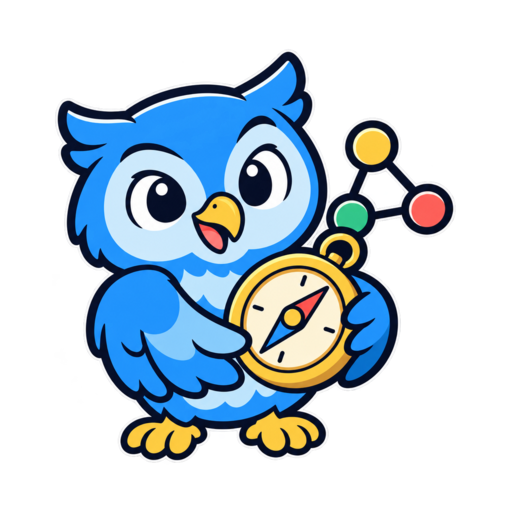
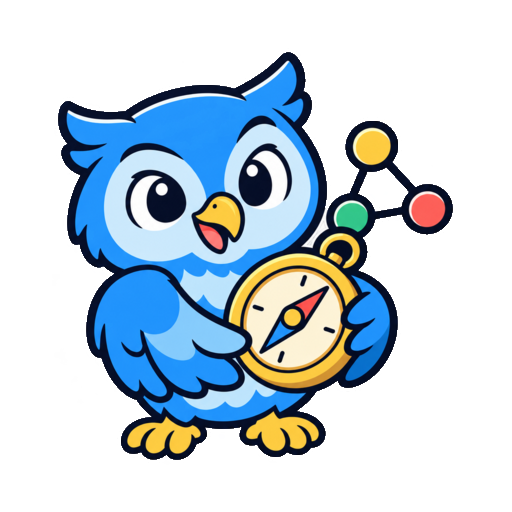
v2.2.18: 2차 아트 16장 검수 통과 — 흰 테두리 정리(tools/img_clean.py), 배너 크롭, IMAGES.md 3차 요청서
Claude-Session: https://claude.ai/code/session_01WmLq1wQvoSs8HDXNtDL6VN

diff --git a/sw.js b/sw.js
@@ -2,10 +2,10 @@
 //   같은 출처(core/shared/courses): 설치 때 미리 캐시 + 캐시 우선(?v= 로 버전이 갈리므로 안전). HTML은 네트워크 우선(새 버전 반영) → 실패하면 캐시.
 //   CDN(Pyodide·Blockly·CodeMirror): 처음 쓸 때 캐시(runtime), 그 뒤 캐시 우선. Pyodide 한 벌 ≈ 12MB.
 //   버전이 바뀌면 activate 에서 옛 캐시를 지운다. 설정 화면의 "오프라인 캐시" 줄이 상태를 보여 준다.
-const VERSION = '2.2.17';
+const VERSION = '2.2.18';
 const SHELL = 'academy-shell-' + VERSION;
 const CDN = 'academy-cdn-1'; // CDN 캐시는 버전과 무관(러너 버전은 config 에서 바뀔 때만)
-const ASSETS = ["index.html","core/config.js?v=2.2.17","core/engine.js?v=2.2.17","core/fx.js?v=2.2.17","core/game.js?v=2.2.17","core/hub.js?v=2.2.17","core/storage.js?v=2.2.17","core/sync.js?v=2.2.17","core/tutor.js?v=2.2.17","core/ui-core.js?v=2.2.17","core/ui-editors.js?v=2.2.17","core/ui-views-main.js?v=2.2.17","core/ui-views-more.js?v=2.2.17","core/ui.css?v=2.2.17","core/util.js?v=2.2.17","core/visualize.js?v=2.2.17","core/runners/python.js?v=2.2.17","core/runners/shell.js?v=2.2.17","shared/badges.js?v=2.2.17","shared/errors.js?v=2.2.17","shared/glossary.js?v=2.2.17","courses/algo/index.html","courses/algo/content.js?v=2.2.17","courses/algo/course.json","courses/python/index.html","courses/python/content.js?v=2.2.17","courses/python/course.json","courses/terminal-git/index.html","courses/terminal-git/content.js?v=2.2.17","courses/terminal-git/course.json","assets/img/badge-master_algo.png?v=2.2.17","assets/img/badge-master_python.png?v=2.2.17","assets/img/boss-algo-1.png?v=2.2.17","assets/img/boss-algo-2.png?v=2.2.17","assets/img/boss-algo-3.png?v=2.2.17","assets/img/boss-algo-4.png?v=2.2.17","assets/img/boss-python-1.png?v=2.2.17","assets/img/boss-python-2.png?v=2.2.17","assets/img/boss-python-3.png?v=2.2.17","assets/img/boss-python-4.png?v=2.2.17","assets/img/boss-python-5.png?v=2.2.17","assets/img/course-algo.png?v=2.2.17","assets/img/course-python.png?v=2.2.17","assets/img/course-sql.png?v=2.2.17","assets/img/course-terminal-git.png?v=2.2.17","assets/img/course-web.png?v=2.2.17","assets/img/empty-works.png?v=2.2.17","assets/img/hero-hub.png?v=2.2.17"];
+const ASSETS = ["index.html","core/config.js?v=2.2.18","core/engine.js?v=2.2.18","core/fx.js?v=2.2.18","core/game.js?v=2.2.18","core/hub.js?v=2.2.18","core/storage.js?v=2.2.18","core/sync.js?v=2.2.18","core/tutor.js?v=2.2.18","core/ui-core.js?v=2.2.18","core/ui-editors.js?v=2.2.18","core/ui-views-main.js?v=2.2.18","core/ui-views-more.js?v=2.2.18","core/ui.css?v=2.2.18","core/util.js?v=2.2.18","core/visualize.js?v=2.2.18","core/runners/python.js?v=2.2.18","core/runners/shell.js?v=2.2.18","shared/badges.js?v=2.2.18","shared/errors.js?v=2.2.18","shared/glossary.js?v=2.2.18","courses/algo/index.html","courses/algo/content.js?v=2.2.18","courses/algo/course.json","courses/python/index.html","courses/python/content.js?v=2.2.18","courses/python/course.json","courses/terminal-git/index.html","courses/terminal-git/content.js?v=2.2.18","courses/terminal-git/course.json","assets/img/badge-master_algo.png?v=2.2.18","assets/img/badge-master_python.png?v=2.2.18","assets/img/boss-algo-1.png?v=2.2.18","assets/img/boss-algo-2.png?v=2.2.18","assets/img/boss-algo-3.png?v=2.2.18","assets/img/boss-algo-4.png?v=2.2.18","assets/img/boss-python-1.png?v=2.2.18","assets/img/boss-python-2.png?v=2.2.18","assets/img/boss-python-3.png?v=2.2.18","assets/img/boss-python-4.png?v=2.2.18","assets/img/boss-python-5.png?v=2.2.18","assets/img/course-algo.png?v=2.2.18","assets/img/course-python.png?v=2.2.18","assets/img/course-sql.png?v=2.2.18","assets/img/course-terminal-git.png?v=2.2.18","assets/img/course-web.png?v=2.2.18","assets/img/empty-works.png?v=2.2.18","assets/img/hero-hub.png?v=2.2.18"];
 const CDN_HOSTS = ['cdn.jsdelivr.net', 'unpkg.com', 'cdnjs.cloudflare.com'];
 self.addEventListener('install', (e) => { e.waitUntil((async () => { const c = await caches.open(SHELL); await Promise.allSettled(ASSETS.map(u => c.add(new Request(u, { cache: 'reload' })))); self.skipWaiting(); })()); });
 self.addEventListener('activate', (e) => { e.waitUntil((async () => { for (const k of await caches.keys()) if (k.startsWith('academy-shell-') && k !== SHELL) await caches.delete(k); await self.clients.claim(); })()); });

diff --git a/courses/terminal-git/index.html b/courses/terminal-git/index.html
@@ -4,7 +4,7 @@
 <meta charset="UTF-8">
 <meta name="viewport" content="width=device-width, initial-scale=1, viewport-fit=cover">
 <title>파이썬 아카데미 — 터미널·Git 코스</title>
-<link rel="stylesheet" href="../../core/ui.css?v=2.2.17">
+<link rel="stylesheet" href="../../core/ui.css?v=2.2.18">
 </head>
 <body data-course="terminal-git">
 <div id="topbar"></div>
@@ -15,23 +15,23 @@
 <div id="pyload" class="hide"></div>
 <canvas id="confetti"></canvas>
 <!-- 코스 페이지는 엔진(core/)과 공유 데이터(shared/), 자기 콘텐츠(content.js)만 불러온다. 로직 없음. 로드 순서를 바꾸지 말 것. -->
-<script src="../../core/config.js?v=2.2.17"></script>
-<script src="../../core/util.js?v=2.2.17"></script>
-<script src="../../shared/errors.js?v=2.2.17"></script>
-<script src="../../shared/glossary.js?v=2.2.17"></script>
-<script src="../../shared/badges.js?v=2.2.17"></script>
-<script src="content.js?v=2.2.17"></script>
-<script src="../../core/storage.js?v=2.2.17"></script>
-<script src="../../core/sync.js?v=2.2.17"></script>
-<script src="../../core/engine.js?v=2.2.17"></script>
-<script src="../../core/runners/shell.js?v=2.2.17"></script><!-- WP-B: python.js 대신 셸 러너. Py.* 를 호출하는 화면(놀이터·예제 실행)은 러너 디스패치(NEXT.md WP-B 4단계) 뒤에 동작 -->
-<script src="../../core/game.js?v=2.2.17"></script>
-<script src="../../core/tutor.js?v=2.2.17"></script>
-<script src="../../core/fx.js?v=2.2.17"></script>
-<script src="../../core/ui-core.js?v=2.2.17"></script>
-<script src="../../core/ui-editors.js?v=2.2.17"></script>
-<script src="../../core/ui-views-main.js?v=2.2.17"></script>
+<script src="../../core/config.js?v=2.2.18"></script>
+<script src="../../core/util.js?v=2.2.18"></script>
+<script src="../../shared/errors.js?v=2.2.18"></script>
+<script src="../../shared/glossary.js?v=2.2.18"></script>
+<script src="../../shared/badges.js?v=2.2.18"></script>
+<script src="content.js?v=2.2.18"></script>
+<script src="../../core/storage.js?v=2.2.18"></script>
+<script src="../../core/sync.js?v=2.2.18"></script>
+<script src="../../core/engine.js?v=2.2.18"></script>
+<script src="../../core/runners/shell.js?v=2.2.18"></script><!-- WP-B: python.js 대신 셸 러너. Py.* 를 호출하는 화면(놀이터·예제 실행)은 러너 디스패치(NEXT.md WP-B 4단계) 뒤에 동작 -->
+<script src="../../core/game.js?v=2.2.18"></script>
+<script src="../../core/tutor.js?v=2.2.18"></script>
+<script src="../../core/fx.js?v=2.2.18"></script>
+<script src="../../core/ui-core.js?v=2.2.18"></script>
+<script src="../../core/ui-editors.js?v=2.2.18"></script>
+<script src="../../core/ui-views-main.js?v=2.2.18"></script>
 <!-- WP-B 5단계: core/ui-views-terminal.js (터미널 창·파일 트리·커밋 그래프·3칸 상태 뷰) 를 여기 추가 -->
-<script src="../../core/ui-views-more.js?v=2.2.17"></script>
+<script src="../../core/ui-views-more.js?v=2.2.18"></script>
 </body>
 </html>

diff --git a/courses/algo/index.html b/courses/algo/index.html
@@ -4,7 +4,7 @@
 <meta charset="UTF-8">
 <meta name="viewport" content="width=device-width, initial-scale=1, viewport-fit=cover">
 <title>파이썬 아카데미 — 알고리즘·자료구조 코스</title>
-<link rel="stylesheet" href="../../core/ui.css?v=2.2.17">
+<link rel="stylesheet" href="../../core/ui.css?v=2.2.18">
 </head>
 <body data-course="algo">
 <div id="topbar"></div>
@@ -15,23 +15,23 @@
 <div id="pyload" class="hide"></div>
 <canvas id="confetti"></canvas>
 <!-- 코스 페이지는 엔진(core/)과 공유 데이터(shared/), 자기 콘텐츠(content.js)만 불러온다. 로직 없음. 로드 순서를 바꾸지 말 것. -->
-<script src="../../core/config.js?v=2.2.17"></script>
-<script src="../../core/util.js?v=2.2.17"></script>
-<script src="../../shared/errors.js?v=2.2.17"></script>
-<script src="../../shared/glossary.js?v=2.2.17"></script>
-<script src="../../shared/badges.js?v=2.2.17"></script>
-<script src="content.js?v=2.2.17"></script>
-<script src="../../core/storage.js?v=2.2.17"></script>
-<script src="../../core/sync.js?v=2.2.17"></script>
-<script src="../../core/engine.js?v=2.2.17"></script>
-<script src="../../core/runners/python.js?v=2.2.17"></script>
-<script src="../../core/game.js?v=2.2.17"></script>
-<script src="../../core/tutor.js?v=2.2.17"></script>
-<script src="../../core/fx.js?v=2.2.17"></script>
-<script src="../../core/ui-core.js?v=2.2.17"></script>
-<script src="../../core/ui-editors.js?v=2.2.17"></script>
-<script src="../../core/ui-views-main.js?v=2.2.17"></script>
-<script src="../../core/visualize.js?v=2.2.17"></script>
-<script src="../../core/ui-views-more.js?v=2.2.17"></script>
+<script src="../../core/config.js?v=2.2.18"></script>
+<script src="../../core/util.js?v=2.2.18"></script>
+<script src="../../shared/errors.js?v=2.2.18"></script>
+<script src="../../shared/glossary.js?v=2.2.18"></script>
+<script src="../../shared/badges.js?v=2.2.18"></script>
+<script src="content.js?v=2.2.18"></script>
+<script src="../../core/storage.js?v=2.2.18"></script>
+<script src="../../core/sync.js?v=2.2.18"></script>
+<script src="../../core/engine.js?v=2.2.18"></script>
+<script src="../../core/runners/python.js?v=2.2.18"></script>
+<script src="../../core/game.js?v=2.2.18"></script>
+<script src="../../core/tutor.js?v=2.2.18"></script>
+<script src="../../core/fx.js?v=2.2.18"></script>
+<script src="../../core/ui-core.js?v=2.2.18"></script>
+<script src="../../core/ui-editors.js?v=2.2.18"></script>
+<script src="../../core/ui-views-main.js?v=2.2.18"></script>
+<script src="../../core/visualize.js?v=2.2.18"></script>
+<script src="../../core/ui-views-more.js?v=2.2.18"></script>
 </body>
 </html>

diff --git a/courses/python/index.html b/courses/python/index.html
@@ -4,7 +4,7 @@
 <meta charset="UTF-8">
 <meta name="viewport" content="width=device-width, initial-scale=1, viewport-fit=cover">
 <title>파이썬 아카데미 — 파이썬 코스</title>
-<link rel="stylesheet" href="../../core/ui.css?v=2.2.17">
+<link rel="stylesheet" href="../../core/ui.css?v=2.2.18">
 </head>
 <body data-course="python">
 <div id="topbar"></div>
@@ -15,22 +15,22 @@
 <div id="pyload" class="hide"></div>
 <canvas id="confetti"></canvas>
 <!-- 코스 페이지는 엔진(core/)과 공유 데이터(shared/), 자기 콘텐츠(content.js)만 불러온다. 로직 없음. 로드 순서를 바꾸지 말 것. -->
-<script src="../../core/config.js?v=2.2.17"></script>
-<script src="../../core/util.js?v=2.2.17"></script>
-<script src="../../shared/errors.js?v=2.2.17"></script>
-<script src="../../shared/glossary.js?v=2.2.17"></script>
-<script src="../../shared/badges.js?v=2.2.17"></script>
-<script src="content.js?v=2.2.17"></script>
-<script src="../../core/storage.js?v=2.2.17"></script>
-<script src="../../core/sync.js?v=2.2.17"></script>
-<script src="../../core/engine.js?v=2.2.17"></script>
-<script src="../../core/runners/python.js?v=2.2.17"></script>
-<script src="../../core/game.js?v=2.2.17"></script>
-<script src="../../core/tutor.js?v=2.2.17"></script>
-<script src="../../core/fx.js?v=2.2.17"></script>
-<script src="../../core/ui-core.js?v=2.2.17"></script>
-<script src="../../core/ui-editors.js?v=2.2.17"></script>
-<script src="../../core/ui-views-main.js?v=2.2.17"></script>
-<script src="../../core/ui-views-more.js?v=2.2.17"></script>
+<script src="../../core/config.js?v=2.2.18"></script>
+<script src="../../core/util.js?v=2.2.18"></script>
+<script src="../../shared/errors.js?v=2.2.18"></script>
+<script src="../../shared/glossary.js?v=2.2.18"></script>
+<script src="../../shared/badges.js?v=2.2.18"></script>
+<script src="content.js?v=2.2.18"></script>
+<script src="../../core/storage.js?v=2.2.18"></script>
+<script src="../../core/sync.js?v=2.2.18"></script>
+<script src="../../core/engine.js?v=2.2.18"></script>
+<script src="../../core/runners/python.js?v=2.2.18"></script>
+<script src="../../core/game.js?v=2.2.18"></script>
+<script src="../../core/tutor.js?v=2.2.18"></script>
+<script src="../../core/fx.js?v=2.2.18"></script>
+<script src="../../core/ui-core.js?v=2.2.18"></script>
+<script src="../../core/ui-editors.js?v=2.2.18"></script>
+<script src="../../core/ui-views-main.js?v=2.2.18"></script>
+<script src="../../core/ui-views-more.js?v=2.2.18"></script>
 </body>
 </html>

diff --git a/index.html b/index.html
@@ -4,23 +4,23 @@
 <meta charset="UTF-8">
 <meta name="viewport" content="width=device-width, initial-scale=1, viewport-fit=cover">
 <title>파이썬 아카데미 — 허브</title>
-<link rel="stylesheet" href="core/ui.css?v=2.2.17">
+<link rel="stylesheet" href="core/ui.css?v=2.2.18">
 </head>
 <body>
 <div id="topbar"></div>
 <div id="view"></div>
 <div id="toasts"></div>
 <!-- 허브는 가볍게: 러너(Pyodide·Blockly·CodeMirror) 없음. 진행률 계산을 위해 파이썬 콘텐츠(데이터)만 읽는다. -->
-<script src="core/config.js?v=2.2.17"></script>
-<script src="core/util.js?v=2.2.17"></script>
-<script src="shared/badges.js?v=2.2.17"></script>
-<script src="courses/python/content.js?v=2.2.17"></script>
-<script src="core/storage.js?v=2.2.17"></script>
-<script src="core/sync.js?v=2.2.17"></script>
-<script src="core/engine.js?v=2.2.17"></script>
-<script src="core/game.js?v=2.2.17"></script>
-<script src="core/fx.js?v=2.2.17"></script>
-<script src="core/ui-core.js?v=2.2.17"></script>
-<script src="core/hub.js?v=2.2.17"></script>
+<script src="core/config.js?v=2.2.18"></script>
+<script src="core/util.js?v=2.2.18"></script>
+<script src="shared/badges.js?v=2.2.18"></script>
+<script src="courses/python/content.js?v=2.2.18"></script>
+<script src="core/storage.js?v=2.2.18"></script>
+<script src="core/sync.js?v=2.2.18"></script>
+<script src="core/engine.js?v=2.2.18"></script>
+<script src="core/game.js?v=2.2.18"></script>
+<script src="core/fx.js?v=2.2.18"></script>
+<script src="core/ui-core.js?v=2.2.18"></script>
+<script src="core/hub.js?v=2.2.18"></script>
 </body>
 </html>

diff --git a/core/config.js b/core/config.js
@@ -2,7 +2,7 @@
 // === CONFIG ===  (수치·CDN 주소·모델명. 수정을 맡길 때 APP_VERSION을 올린다)
 // =====================================================================
 const CONFIG = {
-  APP_VERSION: '2.2.17',
+  APP_VERSION: '2.2.18',
   HUB_PATH: '../../index.html',             // 코스 페이지에서 허브로 (상대 경로)
   SCHEMA_VERSION: 2,                      // 2 = academy.* 조각 저장 (core/storage.js)
   COURSES: [                              // 허브 코스 카드 순서. path는 허브 기준 상대 경로

diff --git a/tools/img_clean.py b/tools/img_clean.py
@@ -1,0 +1,53 @@
+#!/usr/bin/env python3
+# tools/img_clean.py — IMAGES.md 납품 검수·정리. `python3 tools/img_clean.py [--check] [파일...]`  (Pillow 필요: pip install pillow)
+#   검사: 크기(512/256/1200×400), RGBA 투명 배경, 모서리 알파 0, 여백 ≥ 6%, 흰 테두리(스티커 후광) 유무
+#   정리(--check 없을 때): 투명 배경에 맞닿은 흰색~회색(무채색) 테두리 픽셀을 지운다(최대 14겹)(다크 테마에서 흰 띠가 생기는 문제). 내부의 흰색(눈·종이)은 윤곽선에 막혀 그대로.
+#            hero-hub.png 처럼 아래가 비어 있는 가로 배너는 내용 bbox + 8% 여백으로 잘라 세로를 줄인다.
+import os, sys
+try:
+    from PIL import Image
+except ImportError:
+    print('Pillow 가 필요해요: pip install pillow'); sys.exit(2)
+ROOT = os.path.dirname(os.path.dirname(os.path.abspath(__file__))); DIR = os.path.join(ROOT, 'assets', 'img')
+check_only = '--check' in sys.argv; args = [a for a in sys.argv[1:] if not a.startswith('--')]
+files = args or sorted(f for f in os.listdir(DIR) if f.endswith('.png'))
+EXPECT = {'badge-': (256, 256), 'hero-': (1200, None), 'course-': (512, 512), 'boss-': (512, 512), 'chapter-': (512, 512), 'empty-': (512, 512)}
+def rim_pixels(im):
+    w, h = im.size; px = im.load(); out = []
+    for y in range(h):
+        for x in range(w):
+            r, g, b, a = px[x, y]
+            if a == 0 or not (min(r, g, b) > 100 and max(r, g, b) - min(r, g, b) < 36): continue  # 흰색~회색(무채색) 테두리만
+            for dx, dy in ((1, 0), (-1, 0), (0, 1), (0, -1)):
+                nx, ny = x + dx, y + dy
+                if nx < 0 or ny < 0 or nx >= w or ny >= h or px[nx, ny][3] == 0: out.append((x, y)); break
+    return out
+problems = 0
+for f in files:
+    p = os.path.join(DIR, f) if not os.path.exists(f) else f; im = Image.open(p).convert('RGBA'); w, h = im.size; a = im.split()[3]; notes = []
+    exp = next((v for k, v in EXPECT.items() if os.path.basename(f).startswith(k)), None)
+    if exp and (w != exp[0] or (exp[1] and h != exp[1])): notes.append(f'크기 {w}x{h} (기대 {exp[0]}x{exp[1] or "자유"})')
+    if any(a.getpixel(c) != 0 for c in ((0, 0), (w - 1, 0), (0, h - 1), (w - 1, h - 1))): notes.append('모서리가 투명하지 않음')
+    bbox = a.getbbox(); margin = min(bbox[0], bbox[1], w - bbox[2], h - bbox[3]) if bbox else 0
+    if margin < 0.06 * min(w, h): notes.append(f'여백 {margin}px 부족')
+    rim = rim_pixels(im)
+    if len(rim) > 150: notes.append(f'흰 테두리 {len(rim)}px')
+    changed = False
+    if not check_only:
+        px = im.load(); total = 0
+        for _ in range(14):
+            rim = rim_pixels(im)
+            if not rim: break
+            for x, y in rim: px[x, y] = (0, 0, 0, 0)
+            total += len(rim)
+        if total > 150: changed = True; notes.append(f'→ 흰 테두리 {total}px 제거')
+        if os.path.basename(f).startswith('hero-'):
+            bb = im.split()[3].getbbox(); pad = 24
+            top = max(0, bb[1] - pad); bottom = min(h, bb[3] + pad)
+            if bottom - top < h - 40: im = im.crop((0, top, w, bottom)); changed = True; notes.append(f'→ 세로 {h}→{im.size[1]} 잘라냄')
+        if changed: im.save(p, optimize=True)
+    status = '✓' if not [n for n in notes if not n.startswith('→')] or changed else '✗'
+    if status == '✗': problems += 1
+    print(f'{status} {os.path.basename(f):26s} {w}x{h} ' + (' · '.join(notes) if notes else 'OK'))
+print(('문제 %d개' % problems) if problems else '✓ img_clean OK')
+sys.exit(1 if problems and check_only else 0)

diff --git a/IMAGES.md b/IMAGES.md
@@ -17,51 +17,53 @@
 
 프롬프트는 영어로 적어 두었다(생성기가 영어를 더 잘 알아듣는다). 한국어 설명은 의도 확인용.
 
-## 2. 완료된 그림 (총 18장 · ✅ 2026-11-02)
+## 2. 완료된 그림 (검수 통과 ✅ — 18장, 2026-11-02 v2.2.18 기준. **스타일 기준**: 새 그림은 이 세트와 나란히 놓았을 때 한 작가가 그린 것처럼 보여야 한다)
 
-스타일 기준은 최초 승인된 `course-python.png`와 `boss-python-1.png`다. 2차 A~D 16장도 같은 세트로 제작했으며, 지정 크기·투명 배경·8% 이상 여백과 다크/라이트 배경의 축소 표시를 검수했다.
-
-| 파일 | 내용 | 비고 |
+| 파일 | 내용 | 쓰이는 곳 |
 | --- | --- | --- |
-| `course-python.png` | 윙크하는 초록 뱀 + 노트북 | 허브 코스 카드 48px |
-| `boss-python-1.png` | 보라색 숫자 괴물(물음표 뿔·숫자 카드·망토) | 보스 HP 패널 56px · 지도 보스 노드 40px |
-| `course-algo.png` | 파란 부엉이·나침반·그래프 | ✅ 완료 · 512×512 · 투명 PNG |
-| `course-terminal-git.png` | 회색 고양이·터미널·분기/병합 꼬리 | ✅ 완료 · 512×512 · 투명 PNG |
-| `course-sql.png` | 노란 코끼리·서랍 3칸·커피 | ✅ 완료 · 512×512 · 투명 PNG |
-| `course-web.png` | 주황 여우·지구본·종이비행기 | ✅ 완료 · 512×512 · 투명 PNG |
-| `boss-python-2.png` | 파란 숫자 보스·느낌표 뿔·주사위 2개 | ✅ 완료 · 512×512 · 투명 PNG |
-| `boss-python-3.png` | 주황 가계부 보스·동전·영수증·지갑 | ✅ 완료 · 512×512 · 투명 PNG |
-| `boss-python-4.png` | 보라 가위바위보 보스·팔 3개·톱니 뿔 | ✅ 완료 · 512×512 · 투명 PNG |
-| `boss-python-5.png` | 진홍 RPG 최종 보스·왕관·나무 검·방패·하트 3개 | ✅ 완료 · 512×512 · 투명 PNG |
-| `boss-algo-1.png` | 초록 괄호 보스·종이 뭉치·프린터 | ✅ 완료 · 512×512 · 투명 PNG |
-| `boss-algo-2.png` | 파란 정렬 보스·돋보기·정렬 막대·화살표 뿔 | ✅ 완료 · 512×512 · 투명 PNG |
-| `boss-algo-3.png` | 주황 미로 보스·미로 판·그래프 노드 3개 | ✅ 완료 · 512×512 · 투명 PNG |
-| `boss-algo-4.png` | 보라 시험 보스·안경·초시계·시험지·연필 뿔 | ✅ 완료 · 512×512 · 투명 PNG |
-| `badge-master_python.png` | 파이썬 마스터·왕관 쓴 초록 뱀 금색 메달 | ✅ 완료 · 256×256 · 투명 PNG |
-| `badge-master_algo.png` | 알고리즘 마스터·왕관 쓴 파란 부엉이 금색 메달 | ✅ 완료 · 256×256 · 투명 PNG |
-| `hero-hub.png` | 다섯 마스코트와 코드 블록 가로 배너 | ✅ 완료 · 1200×400 · 투명 PNG · 하단 1/3 투명 |
-| `empty-works.png` | 붓을 든 초록 뱀·새싹 이젤 | ✅ 완료 · 512×512 · 투명 PNG |
+| `course-python.png` `course-algo.png` `course-terminal-git.png` `course-sql.png` `course-web.png` | 뱀+노트북 · 부엉이+나침반 · 고양이+터미널 · 코끼리+캐비닛 · 여우+지구본 | 허브 코스 카드 48px, 공유 카드 |
+| `boss-python-1~5.png` `boss-algo-1~4.png` | 꼬마 괴물 종족(보라 물음표·파랑 주사위·주황 가계부·보라 세 팔·빨강 왕관 / 초록 괄호·파랑 돋보기·주황 미로·보라 감독관) | 보스 HP 패널 56px, 지도 보스 노드 40px |
+| `badge-master_python.png` `badge-master_algo.png` | 왕관 쓴 뱀·부엉이 금메달 | 뱃지 화면, 공유 카드 |
+| `hero-hub.png` (1200×274로 잘라 둠) | 마스코트 5마리 + 코드 블록 | 허브 맨 위 배너 |
+| `empty-works.png` | 이젤 위 새싹 + 붓 든 뱀 | 내 작품 빈 화면 |
 
-## 3. 요청 목록 — 2차 납품 완료
+**검수 메모(2차)**: 2차 16장 중 6장(알고·SQL·웹 아이콘, 빈 작품, 알고 마스터 뱃지, 배너)에 **흰 스티커 테두리**가 있어 다크 테마에서 흰 띠로 보였음 → `tools/img_clean.py`로 투명 배경에 닿은 흰~회색 테두리를 지워 해결(내부 흰색은 윤곽선에 막혀 유지). 앞으로는 납품 전에 `python3 tools/img_clean.py --check`로 확인하고, 테두리가 있으면 `python3 tools/img_clean.py`(인자 없음)로 정리한 뒤 커밋. 배너는 아래 빈 공간을 잘라 1200×274가 됨 — 가로 배너는 **내용이 캔버스를 꽉 채우게** 그리는 편이 좋다.
 
-✅ **A~D 총 16장 완료** — 항목을 2절 완료 표로 이동했다. 현재 남은 2차 요청은 없다.
+## 3. 요청 목록 — 3차 (다음에 만들 것, 총 16장)
 
-**납품 체크리스트 (2차)**
+규칙은 1절 + 2절 검수 메모(흰 테두리 금지 — 바깥 윤곽선은 어두운 남색 `#1d2230`으로 끝나야 함).
 
-- [x] 16장 모두 `assets/img/`에 정확한 이름으로 저장
-- [x] 완료 항목을 2절 표로 이동하고 3절 요청 표에서 제거
-- [x] `APP_VERSION` 2.2.16 → 2.2.17 (패치 +1)
-- [x] `node tools/stamp.mjs`로 HTML 버전·오프라인 캐시 목록 갱신
-- [x] `CHANGELOG.md`·`HANDOFF.md` 상태판 갱신
-- [x] 이미지·문서·버전·캐시를 한 납품 커밋에 포함
+### A. 챕터 장식 (512×512, 홈 지도 챕터 제목 옆 32px — 작게 보이므로 **소품 하나, 단순하게**)
 
-생성 방식·최종 프롬프트는 [`assets/img/README.md`](assets/img/README.md)에 기록했다.
+| # | 파일 | 챕터 | 소품 | Prompt (EN) |
+| --- | --- | --- | --- | --- |
+| A1 | `chapter-python-0.png` | 파이썬 0 시작 | 출발 깃발(초록) | `flat vector sticker of a small green start flag on a short pole, bold dark navy outline (#1d2230), no text, transparent background, centered, 8% margin, simple icon` |
+| A2 | `chapter-python-1.png` | 1 첫걸음 | 새싹 화분 | `flat vector sticker of a tiny sprout in a small pot, bold dark navy outline (#1d2230), green (#4caf50), no text, transparent background, centered, 8% margin` |
+| A3 | `chapter-python-2.png` | 2 반복과 묶음 | 파란 회오리 화살표(반복) | `flat vector sticker of a blue circular loop arrow (#2196f3), bold dark navy outline (#1d2230), no text, transparent background, centered, 8% margin` |
+| A4 | `chapter-python-3.png` | 3 데이터 다루기 | 주황 상자 3개 쌓임 | `flat vector sticker of three stacked orange boxes (#ff9800) with a small label tag, bold dark navy outline (#1d2230), no text, transparent background, centered, 8% margin` |
+| A5 | `chapter-python-4.png` | 4 더 큰 프로그램 | 보라 톱니바퀴 2개 | `flat vector sticker of two interlocking purple gears (#9c27b0), bold dark navy outline (#1d2230), no text, transparent background, centered, 8% margin` |
+| A6 | `chapter-python-5.png` | 5 마무리 | 분홍 리본 메달 | `flat vector sticker of a pink ribbon rosette medal (#e91e63), bold dark navy outline (#1d2230), no text, transparent background, centered, 8% margin` |
+| A7 | `chapter-python-6.png` | 6 실전 | 금 트로피 | `flat vector sticker of a small golden trophy (#ffd166), bold dark navy outline (#1d2230), no text, transparent background, centered, 8% margin` |
+| A8 | `chapter-algo-1.png` | 알고 1 들어가기 | 초록 나침반 | `flat vector sticker of a small green compass (#4caf50), bold dark navy outline (#1d2230), no text, transparent background, centered, 8% margin` |
+| A9 | `chapter-algo-2.png` | 2 찾고 정렬하기 | 파란 돋보기 + 막대 3개 | `flat vector sticker of a blue magnifying glass over three bars of increasing height (#2196f3), bold dark navy outline (#1d2230), no text, transparent background, centered, 8% margin` |
+| A10 | `chapter-algo-3.png` | 3 연결된 구조 | 주황 사슬 고리 3개 | `flat vector sticker of three orange chain links (#ff9800) connected in a row, bold dark navy outline (#1d2230), no text, transparent background, centered, 8% margin` |
+| A11 | `chapter-algo-4.png` | 4 패턴 | 보라 퍼즐 조각 | `flat vector sticker of a purple jigsaw puzzle piece (#9c27b0), bold dark navy outline (#1d2230), no text, transparent background, centered, 8% margin` |
+| A12 | `chapter-algo-5.png` | 5 실전 | 금 트로피(파이썬 6과 같은 것 재사용 가능 — 같은 파일 복사) | (A7 복사) |
 
-## 4. 3차 이후 (2차가 끝난 뒤 — 챕터 장식은 자리 있음, 나머지는 자리 없음)
+### B. 수학 공간 (EXPANSION.md 14절 준비 — 자리는 M1에서 생김, **M1 착수 전엔 만들지 말 것**)
+
+| # | 파일 | 쓰이는 곳 | 설명 |
+| --- | --- | --- | --- |
+| B1 | `course-math.png` | 허브 수학 공간 카드 | 박사모 쓴 거북이(느리지만 확실히)가 자와 컴퍼스를 듦 |
+| B2 | `gear-cap.png` | 마스코트 장비 「박사모」 | 검은 사각모 + 금술, 마스코트 머리 위에 얹히는 투명 PNG(256) |
+| B3 | `area-math-1~6.png` | 지식 지도 영역 아이콘 6 | 수·논리·확률·함수·벡터·그래프 소품 |
+
+**납품 체크리스트 (3차)**: 파일을 `assets/img/`에 → `python3 tools/img_clean.py --check`(문제 있으면 인자 없이 실행해 정리) → 이 파일 2절 표로 옮기고 3절에서 지운다 → `core/config.js` `APP_VERSION` 패치 +1 → `node tools/stamp.mjs` → `CHANGELOG.md`·`HANDOFF.md` 상태판 한 줄 → 커밋.
+
+## 4. 그 뒤 (자리 없음 — 만들지 말 것)
 
 | 파일 | 크기 | 쓰이는 곳 | 메모 |
 | --- | --- | --- | --- |
-| `chapter-<course>-<n>.png` (파이썬 0~6, 알고리즘 1~5) | 512 | 홈 지도 챕터 제목 옆 장식(32px) — **자리 있음(v2.2.14)** | 챕터 주제 소품 하나씩(시작=깃발, 첫걸음=새싹, 반복=회오리, 데이터=상자, 더 큰 프로그램=톱니, 마무리=리본, 실전=트로피 / 알고: 나침반, 돋보기, 사슬, 퍼즐, 트로피) |
 | `mascot-<stage>-<color>.png` | 512 | 상단바·프로필 마스코트(지금은 코드로 그린 SVG, 색·장비를 사용자가 고름) | 색·장비 조합이 많아 SVG가 유리 — 그림으로 바꿀지 미정 |
 | `badge-<id>.png` 나머지 뱃지 ~40개 | 256 | 뱃지 화면 | 자리는 이미 있음(`badge-<id>.png`가 있으면 이모지 대신 표시) |
 | `lesson-<course>-<id>.png` | 640×360 | 레슨 첫 페이지 머리 그림 | 레슨 수가 많아(52) 후순위 |

diff --git a/HANDOFF.md b/HANDOFF.md
@@ -7,8 +7,8 @@
 
 | 항목 | 내용 |
 | --- | --- |
-| **현재 버전** | v2.2.17 (2026-11-02) |
-| **마지막 작업** | (docs) specs/math-space.md → EXPANSION.md **14절 「수학 공간」** 편입, 1절 코스 목록 아래 한 줄(별도 구역·M1~M3 독립·M1 = v2.3.0), specs/README 상태표 갱신. 구현 미착수. 그 전 **v2.2.17: 2차 아트 A~D 16장 납품 완료** — 코스 아이콘 4·보스 8·마스터 뱃지 2·허브 배너·빈 작품. `assets/img/` 지정 이름/크기/투명/여백 검수, `IMAGES.md` 완료 표 이동, 캐시·생성 기록 갱신. 3차 이미지는 별도 요청 전까지 만들지 않음. 그 전 **v2.2.16: 모바일 SyntaxError 대응** — `Py.normalize(code)`가 실행·채점 전에 전각 기호(：（）“”＜ 등)·NBSP·전각 공백·제로폭 문자·탭을 고침(문자열 안은 유지, 토스트로 알림, `result.normalized`), `Py.syntaxTips(code, line)`가 SyntaxError 줄을 보고 흔한 원인(elif/else 들여쓰기 불일치, 콜론 빠짐, 괄호·따옴표 짝, = vs ==)을 한 줄로(실행 에러 상자·테스트 결과에 표시). 사용자 스크린샷: 보스 2 elif 줄 invalid syntax. 그 전 **v2.2.15: 터미널·Git 엔진 준비(WP-B 1~3단계 + 채점기)** — `core/runners/shell.js` 전면 구현: 셸 20개 명령·파이프·리다이렉션·와일드카드·$HOME, Git 시뮬레이터(init/status/add/commit/log/diff/restore/reset/branch/switch/checkout/merge 충돌·abort/rebase/stash/tag/remote/push 거부/pull 병합·충돌/clone, .gitignore, 원격 store로 동료 푸시 시뮬), `Shell.state()` 채점 스냅샷; `shared/errors.js` `ERRORS_SHELL` 25개 + `Shell.explain`; `core/engine.js` `Grader.matchState(state, expect)`; `tools/test_shell.mjs` 111건. 사용자 화면 변화 없음(코스는 아직 준비 중). 남은 WP-B: 엔진 디스패치·UI·콘텐츠(NEXT.md). 그 전 **v2.2.14 (F11, WP-F 완료)**: 프로필 「🖼 PNG로 저장」을 1200×630 공유 카드로(마스코트·레벨·XP·연속·코스별 진행 막대·마스터 👑·최근 뱃지·날짜, 테마 색, 그림 파일 있으면 사용, 캔버스 오염 방지 crossOrigin). 홈 지도 챕터 제목 옆 장식 그림 자리 `chapter-<course>-<n>.png`(32px, 없으면 숨김) → IMAGES.md 4절에 자리 있음 표시. 그 전 **v2.2.13: IMAGES.md 2차 요청서(16장)** — 코스 아이콘 4(알고·터미널·SQL·웹) · 보스 8(파이썬 2~5, 알고 1~4, 같은 종족 규칙) · 마스터 뱃지 2 · 허브 배너 `hero-hub.png` · 빈 작품 `empty-works.png`, 각각 한국어 설명+영어 프롬프트+납품 체크리스트. 코드 자리 추가: 허브 배너(없으면 영역 제거), 뱃지 화면 전 뱃지 `badge-<id>.png`, 내 작품 빈 화면. 그 전 **v2.2.12: 아트 2종 검수 통과** — 투명·여백·흰 후광 없음·512×512 확인, 다크/라이트/모바일 렌더 확인. 보스 패널 이미지 56px로 맞춰 잘림 수정, 허브 아이콘 48px, 지도 보스 노드에도 보스 그림(깬 뒤 회색). IMAGES.md 3절(다음 요청)을 진행 가능으로 표시. 그 전 **v2.2.11: 테스트 아트 2종 납품** — `assets/img/course-python.png`(윙크하는 초록 뱀·노트북), `assets/img/boss-python-1.png`(물음표 뿔·숫자 카드·망토를 갖춘 보라색 보스). 사용자 피드백으로 보스의 눈매·체격·자세 강화. 두 파일 모두 512×512 RGBA·투명 배경·8% 이상 여백 검수. `IMAGES.md` 테스트 1·2를 ✅ 완료로 변경하고 stamp로 오프라인 캐시 포함. 이전 구현 이력은 `CHANGELOG.md` 참고. |
+| **현재 버전** | v2.2.18 (2026-11-02 배포) |
+| **마지막 작업** | **v2.2.18: 2차 아트 16장 검수 통과(총 18장)** — 크기·투명·여백 OK. 6장에 흰 스티커 테두리(다크 테마 흰 띠) → 새 도구 `tools/img_clean.py`(검사 `--check` / 정리: 투명에 닿은 흰~회색 테두리 제거, 배너 아래 빈 공간 자르기 1200×274)로 전부 정리. 허브 배너·코스 아이콘 5·보스 9·마스터 뱃지 2·빈 작품 전부 화면에 적용 확인. IMAGES.md: 2절 완료 18장, 3절 3차 요청(챕터 장식 12 + 수학 공간 준비 B1~B3은 M1 전 금지), 납품 체크리스트에 img_clean. 그 전 (docs) specs/math-space.md → EXPANSION.md **14절 「수학 공간」** 편입, 1절 코스 목록 아래 한 줄(별도 구역·M1~M3 독립·M1 = v2.3.0), specs/README 상태표 갱신. 구현 미착수. 그 전 **v2.2.17: 2차 아트 A~D 16장 납품 완료** — 코스 아이콘 4·보스 8·마스터 뱃지 2·허브 배너·빈 작품. `assets/img/` 지정 이름/크기/투명/여백 검수, `IMAGES.md` 완료 표 이동, 캐시·생성 기록 갱신. 3차 이미지는 별도 요청 전까지 만들지 않음. 그 전 **v2.2.16: 모바일 SyntaxError 대응** — `Py.normalize(code)`가 실행·채점 전에 전각 기호(：（）“”＜ 등)·NBSP·전각 공백·제로폭 문자·탭을 고침(문자열 안은 유지, 토스트로 알림, `result.normalized`), `Py.syntaxTips(code, line)`가 SyntaxError 줄을 보고 흔한 원인(elif/else 들여쓰기 불일치, 콜론 빠짐, 괄호·따옴표 짝, = vs ==)을 한 줄로(실행 에러 상자·테스트 결과에 표시). 사용자 스크린샷: 보스 2 elif 줄 invalid syntax. 그 전 **v2.2.15: 터미널·Git 엔진 준비(WP-B 1~3단계 + 채점기)** — `core/runners/shell.js` 전면 구현: 셸 20개 명령·파이프·리다이렉션·와일드카드·$HOME, Git 시뮬레이터(init/status/add/commit/log/diff/restore/reset/branch/switch/checkout/merge 충돌·abort/rebase/stash/tag/remote/push 거부/pull 병합·충돌/clone, .gitignore, 원격 store로 동료 푸시 시뮬), `Shell.state()` 채점 스냅샷; `shared/errors.js` `ERRORS_SHELL` 25개 + `Shell.explain`; `core/engine.js` `Grader.matchState(state, expect)`; `tools/test_shell.mjs` 111건. 사용자 화면 변화 없음(코스는 아직 준비 중). 남은 WP-B: 엔진 디스패치·UI·콘텐츠(NEXT.md). 그 전 **v2.2.14 (F11, WP-F 완료)**: 프로필 「🖼 PNG로 저장」을 1200×630 공유 카드로(마스코트·레벨·XP·연속·코스별 진행 막대·마스터 👑·최근 뱃지·날짜, 테마 색, 그림 파일 있으면 사용, 캔버스 오염 방지 crossOrigin). 홈 지도 챕터 제목 옆 장식 그림 자리 `chapter-<course>-<n>.png`(32px, 없으면 숨김) → IMAGES.md 4절에 자리 있음 표시. 그 전 **v2.2.13: IMAGES.md 2차 요청서(16장)** — 코스 아이콘 4(알고·터미널·SQL·웹) · 보스 8(파이썬 2~5, 알고 1~4, 같은 종족 규칙) · 마스터 뱃지 2 · 허브 배너 `hero-hub.png` · 빈 작품 `empty-works.png`, 각각 한국어 설명+영어 프롬프트+납품 체크리스트. 코드 자리 추가: 허브 배너(없으면 영역 제거), 뱃지 화면 전 뱃지 `badge-<id>.png`, 내 작품 빈 화면. 그 전 **v2.2.12: 아트 2종 검수 통과** — 투명·여백·흰 후광 없음·512×512 확인, 다크/라이트/모바일 렌더 확인. 보스 패널 이미지 56px로 맞춰 잘림 수정, 허브 아이콘 48px, 지도 보스 노드에도 보스 그림(깬 뒤 회색). IMAGES.md 3절(다음 요청)을 진행 가능으로 표시. 그 전 **v2.2.11: 테스트 아트 2종 납품** — `assets/img/course-python.png`(윙크하는 초록 뱀·노트북), `assets/img/boss-python-1.png`(물음표 뿔·숫자 카드·망토를 갖춘 보라색 보스). 사용자 피드백으로 보스의 눈매·체격·자세 강화. 두 파일 모두 512×512 RGBA·투명 배경·8% 이상 여백 검수. `IMAGES.md` 테스트 1·2를 ✅ 완료로 변경하고 stamp로 오프라인 캐시 포함. 이전 구현 이력은 `CHANGELOG.md` 참고. |
 | **다음 후보** | **원칙: 무료 교육(1절).** 캡스톤·PC형은 보류. 터미널·Git은 엔진 완료 → 다음은 WP-B 4~6단계(디스패치·UI·콘텐츠). ① 완료 아트 총 18종의 실사용 피드백(스크린샷); 3차 아트는 별도 요청 후 제작 ② (WP-F 전부 완료) ③ 「모르겠어요」 기록을 약점 복습에 연결, 틀린 패턴 규칙 보강 ④ 실전 레슨 연습 문제·프로젝트 5·6 — 전부 v2.2.x 패치 ⑤ **수학 공간 M1** (지시서 `specs/math-space.md` — EXPANSION.md 14절로 편입 예정, 14-8 표가 v2.2.16 코드와의 접점; M1 = v2.3.0, 구현은 사용자 지시 후) |
 
 ## 1. 이게 뭔가

diff --git a/CHANGELOG.md b/CHANGELOG.md
@@ -1,6 +1,10 @@
 # CHANGELOG
 
-배포한 버전마다 한 항목. 형식: `## v2.2.17 — 2026-11-02 (2차 아트 16장 납품)
+배포한 버전마다 한 항목. 형식: `## v2.2.18 — 2026-11-02 (2차 아트 검수)
+- 2차 그림 16장 검수 통과: 허브 배너(마스코트 5마리), 코스 카드 아이콘 5종, 챕터 보스 9종, 마스터 뱃지 2종, 내 작품 빈 화면이 전부 화면에 보여요.
+- 다크 테마에서 일부 그림 가장자리에 흰 띠가 보이던 것을 정리(`tools/img_clean.py` — 앞으로 납품 검수에 사용). 배너는 아래 빈 공간을 잘라 더 낮게.
+
+## v2.2.17 — 2026-11-02 (2차 아트 16장 납품)
 - 허브 코스 아이콘 4장, 파이썬·알고리즘 챕터 보스 8장, 마스터 뱃지 2장, 허브 배너·빈 작품 일러스트를 추가했어요. 기존 승인 아트 2종의 스타일과 보스 종족을 유지했어요.
 - 지정된 파일 이름·크기·투명 배경·8% 여백, 배너 하단 1/3 투명과 다크/라이트 축소 표시를 검수했어요. 고양이 꼬리는 Git 분기·병합 모양으로 보정했어요.
 - `IMAGES.md` 2절 완료 표로 16항목을 옮기고 3절 요청 목록을 비웠어요. 버전·오프라인 캐시·인수인계 상태판 및 생성 기록을 함께 갱신했어요.
